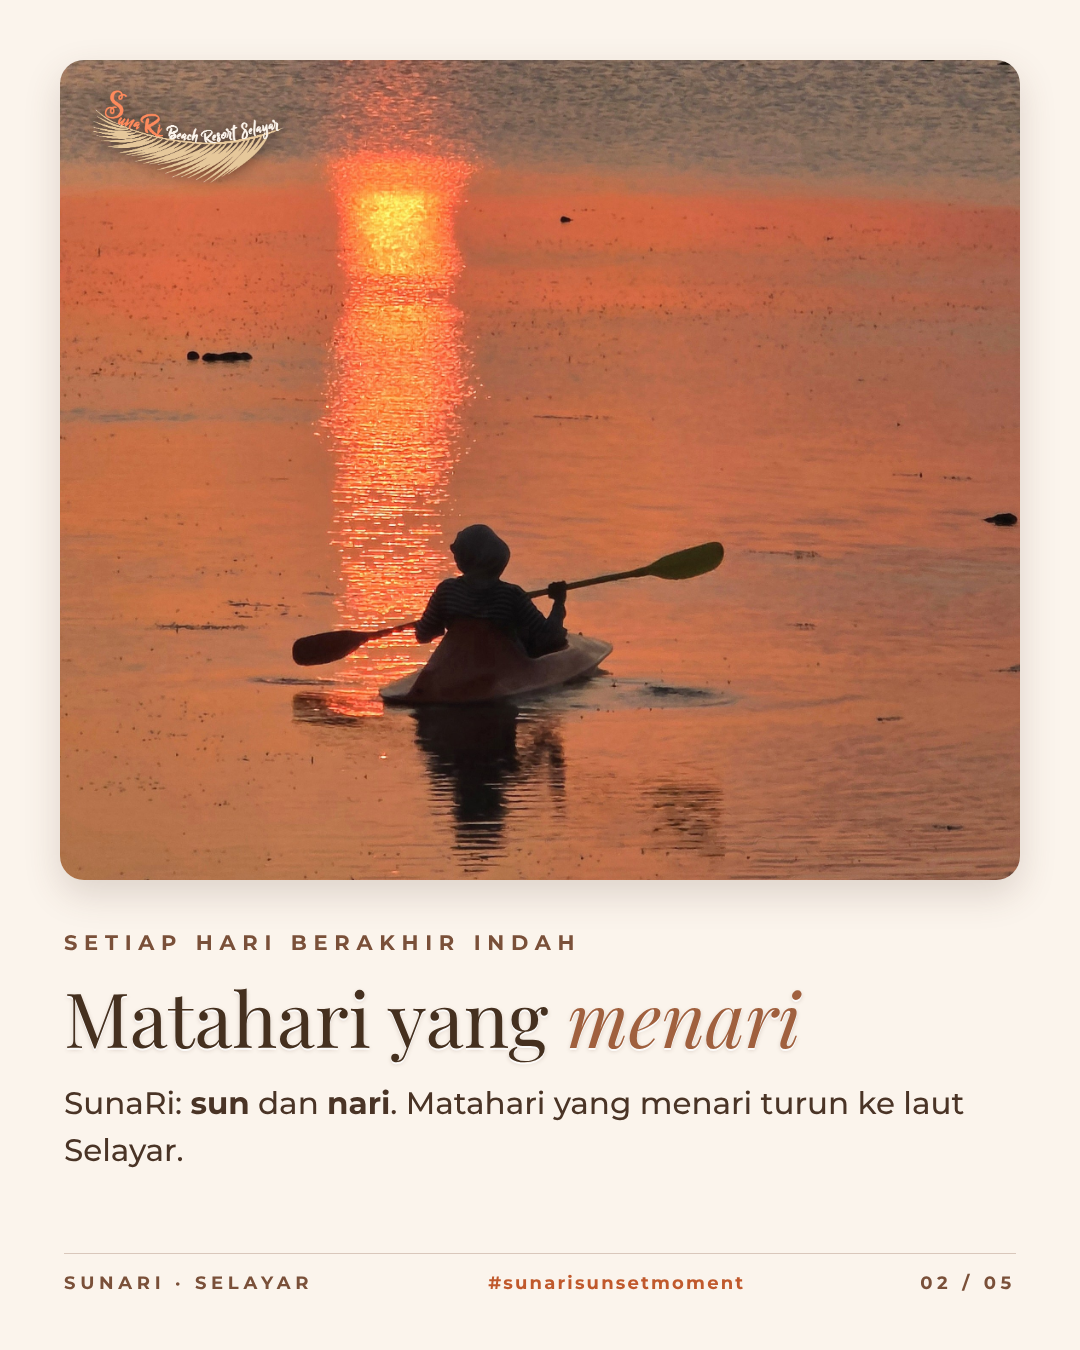
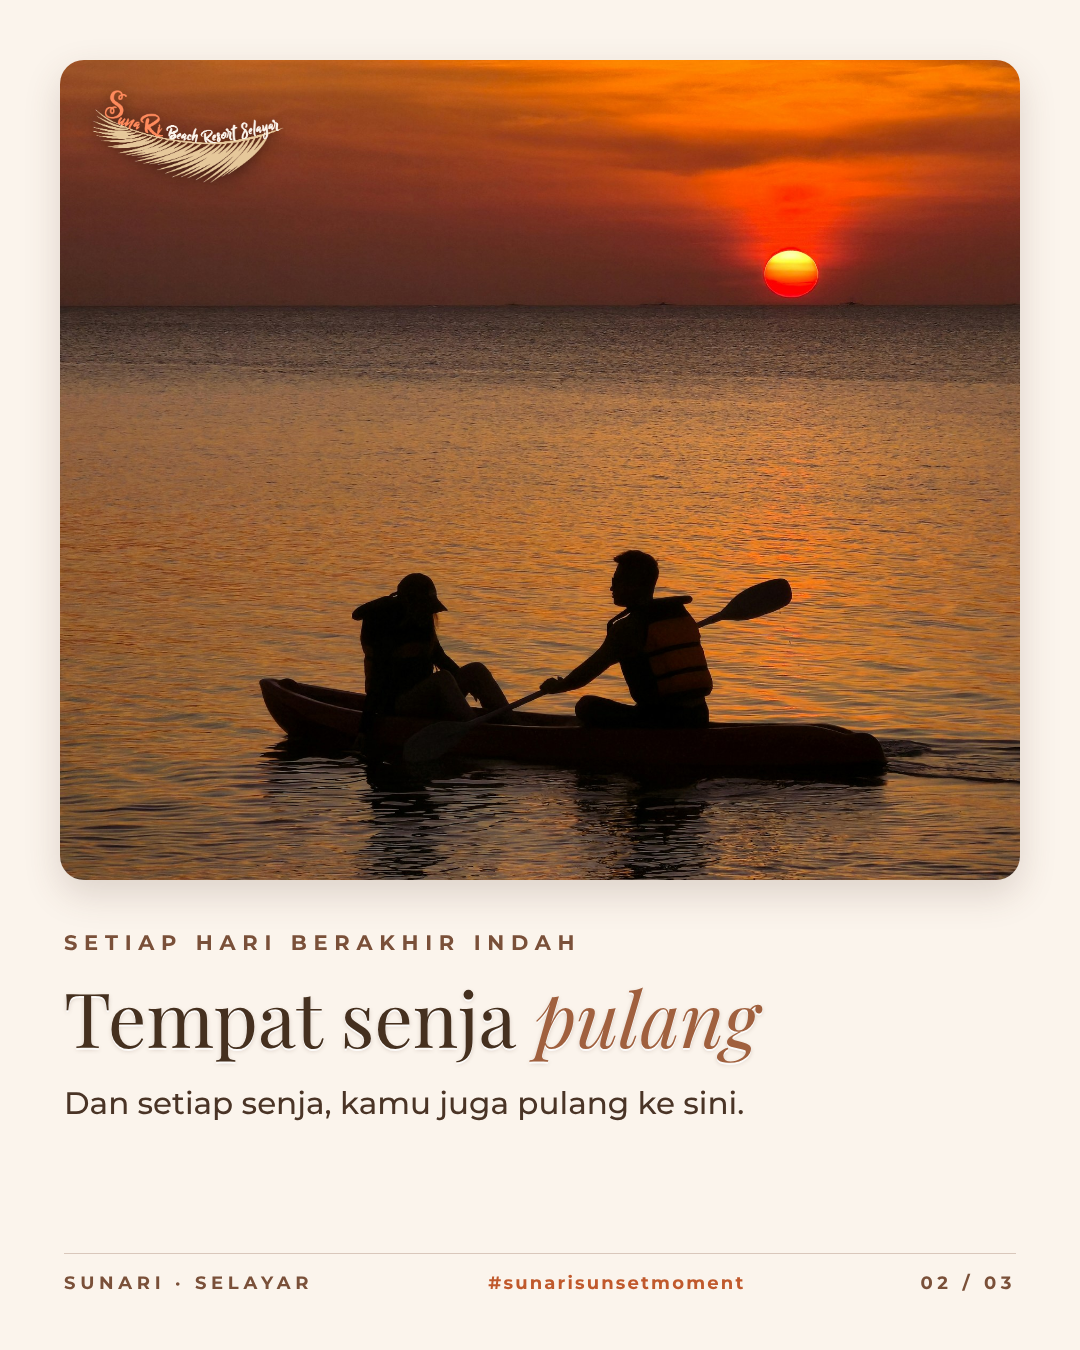
Quote carousel: remove two photo slides (now 3 slides)
Claude-Session: https://claude.ai/code/session_01AizaiBQtsTmWERPRfEgVV4

diff --git a/social/quote.html b/social/quote.html
@@ -48,13 +48,9 @@ body{background:#bbb;font-family:Montserrat,sans-serif}
     <div class="rule" style="background:linear-gradient(90deg,#FDB15D,#FF8A5C);margin:34px auto"></div>
     <div class="en" style="color:#7A5039">Where every day ends beautifully</div></div>
   <div class="ft" style="color:#7A5039;bottom:96px">Pantai Sunari · Selayar</div>
-  <div class="tag" style="color:#C0592C;bottom:62px">#sunarisunsetmoment</div></div><div class="t cs" id="carousel-02"><div class="ph"><img src="../assets/photos/senja/10-kayak-pantulan.jpg" style="object-position:50% 55%" alt=""><img class="lg" src="../assets/logo-sunari-color-dark.png" alt=""></div>
-  <div class="kick">Setiap hari berakhir indah</div><div class="ttl emb">Matahari yang <em>menari</em></div><div class="sub">SunaRi: <b>sun</b> dan <b>nari</b>. Matahari yang menari turun ke laut Selayar.</div>
-  <div class="bt"><span>SunaRi · Selayar</span><span class="h">#sunarisunsetmoment</span><span>02 / 05</span></div></div><div class="t cs" id="carousel-03"><div class="ph"><img src="../assets/photos/senja/16-perahu-nelayan.jpg" style="object-position:50% 60%" alt=""><img class="lg" src="../assets/logo-sunari-color-dark.png" alt=""></div>
-  <div class="kick">Setiap hari berakhir indah</div><div class="ttl emb">Perahu pulang <em>ke darat</em></div><div class="sub">Saat langit oranye, nelayan pun pulang.</div>
-  <div class="bt"><span>SunaRi · Selayar</span><span class="h">#sunarisunsetmoment</span><span>03 / 05</span></div></div><div class="t cs" id="carousel-04"><div class="ph"><img src="../assets/photos/senja/18-kayak-berdua-pelampung.jpg" style="object-position:50% 60%" alt=""><img class="lg" src="../assets/logo-sunari-color-dark.png" alt=""></div>
+  <div class="tag" style="color:#C0592C;bottom:62px">#sunarisunsetmoment</div></div><div class="t cs" id="carousel-02"><div class="ph"><img src="../assets/photos/senja/18-kayak-berdua-pelampung.jpg" style="object-position:50% 60%" alt=""><img class="lg" src="../assets/logo-sunari-color-dark.png" alt=""></div>
   <div class="kick">Setiap hari berakhir indah</div><div class="ttl emb">Tempat senja <em>pulang</em></div><div class="sub">Dan setiap senja, kamu juga pulang ke sini.</div>
-  <div class="bt"><span>SunaRi · Selayar</span><span class="h">#sunarisunsetmoment</span><span>04 / 05</span></div></div><div class="t cs" id="carousel-05"><div class="frame" style="border-color:rgba(138,95,72,.4)"></div>
+  <div class="bt"><span>SunaRi · Selayar</span><span class="h">#sunarisunsetmoment</span><span>02 / 03</span></div></div><div class="t cs" id="carousel-03"><div class="frame" style="border-color:rgba(138,95,72,.4)"></div>
   <img src="../assets/logo-sunari-color.png" style="position:absolute;left:50%;transform:translateX(-50%);top:150px;width:400px" alt="">
   <div style="position:absolute;left:100px;right:100px;top:470px;text-align:center;color:#45301F">
     <div style="font-weight:700;font-size:21px;letter-spacing:.32em;text-transform:uppercase;color:#7A5039">Setiap hari berakhir indah</div>

diff --git a/social/build_quote.py b/social/build_quote.py
@@ -70,14 +70,12 @@ CSS2 = """
 .cs .bt{position:absolute;left:64px;right:64px;bottom:56px;display:flex;justify-content:space-between;font-weight:700;font-size:18px;letter-spacing:.26em;text-transform:uppercase;color:#7A5039;padding-top:18px;border-top:1.5px solid rgba(138,95,72,.3)}
 .cs .bt .h{color:#C0592C;letter-spacing:.12em;text-transform:none}
 """
-SL = [("senja/10-kayak-pantulan.jpg", "50% 55%", 'Matahari yang <em>menari</em>', "SunaRi: <b>sun</b> dan <b>nari</b>. Matahari yang menari turun ke laut Selayar."),
-      ("senja/16-perahu-nelayan.jpg", "50% 60%", 'Perahu pulang <em>ke darat</em>', "Saat langit oranye, nelayan pun pulang."),
-      ("senja/18-kayak-berdua-pelampung.jpg", "50% 60%", 'Tempat senja <em>pulang</em>', "Dan setiap senja, kamu juga pulang ke sini.")]
+SL = [("senja/18-kayak-berdua-pelampung.jpg", "50% 60%", 'Tempat senja <em>pulang</em>', "Dan setiap senja, kamu juga pulang ke sini.")]
 for k, (img, pos, t, sub) in enumerate(SL, 2):
     T.append(f'''<div class="t cs" id="carousel-{k:02d}"><div class="ph"><img src="{P}{img}" style="object-position:{pos}" alt=""><img class="lg" src="{LOGO_D}" alt=""></div>
   <div class="kick">Setiap hari berakhir indah</div><div class="ttl emb">{t}</div><div class="sub">{sub}</div>
-  <div class="bt"><span>SunaRi · Selayar</span><span class="h">#sunarisunsetmoment</span><span>0{k} / 05</span></div></div>''')
-T.append(f'''<div class="t cs" id="carousel-05"><div class="frame" style="border-color:rgba(138,95,72,.4)"></div>
+  <div class="bt"><span>SunaRi · Selayar</span><span class="h">#sunarisunsetmoment</span><span>0{k} / 03</span></div></div>''')
+T.append(f'''<div class="t cs" id="carousel-03"><div class="frame" style="border-color:rgba(138,95,72,.4)"></div>
   <img src="{LOGO}" style="position:absolute;left:50%;transform:translateX(-50%);top:150px;width:400px" alt="">
   <div style="position:absolute;left:100px;right:100px;top:470px;text-align:center;color:#45301F">
     <div style="font-weight:700;font-size:21px;letter-spacing:.32em;text-transform:uppercase;color:#7A5039">Setiap hari berakhir indah</div>
